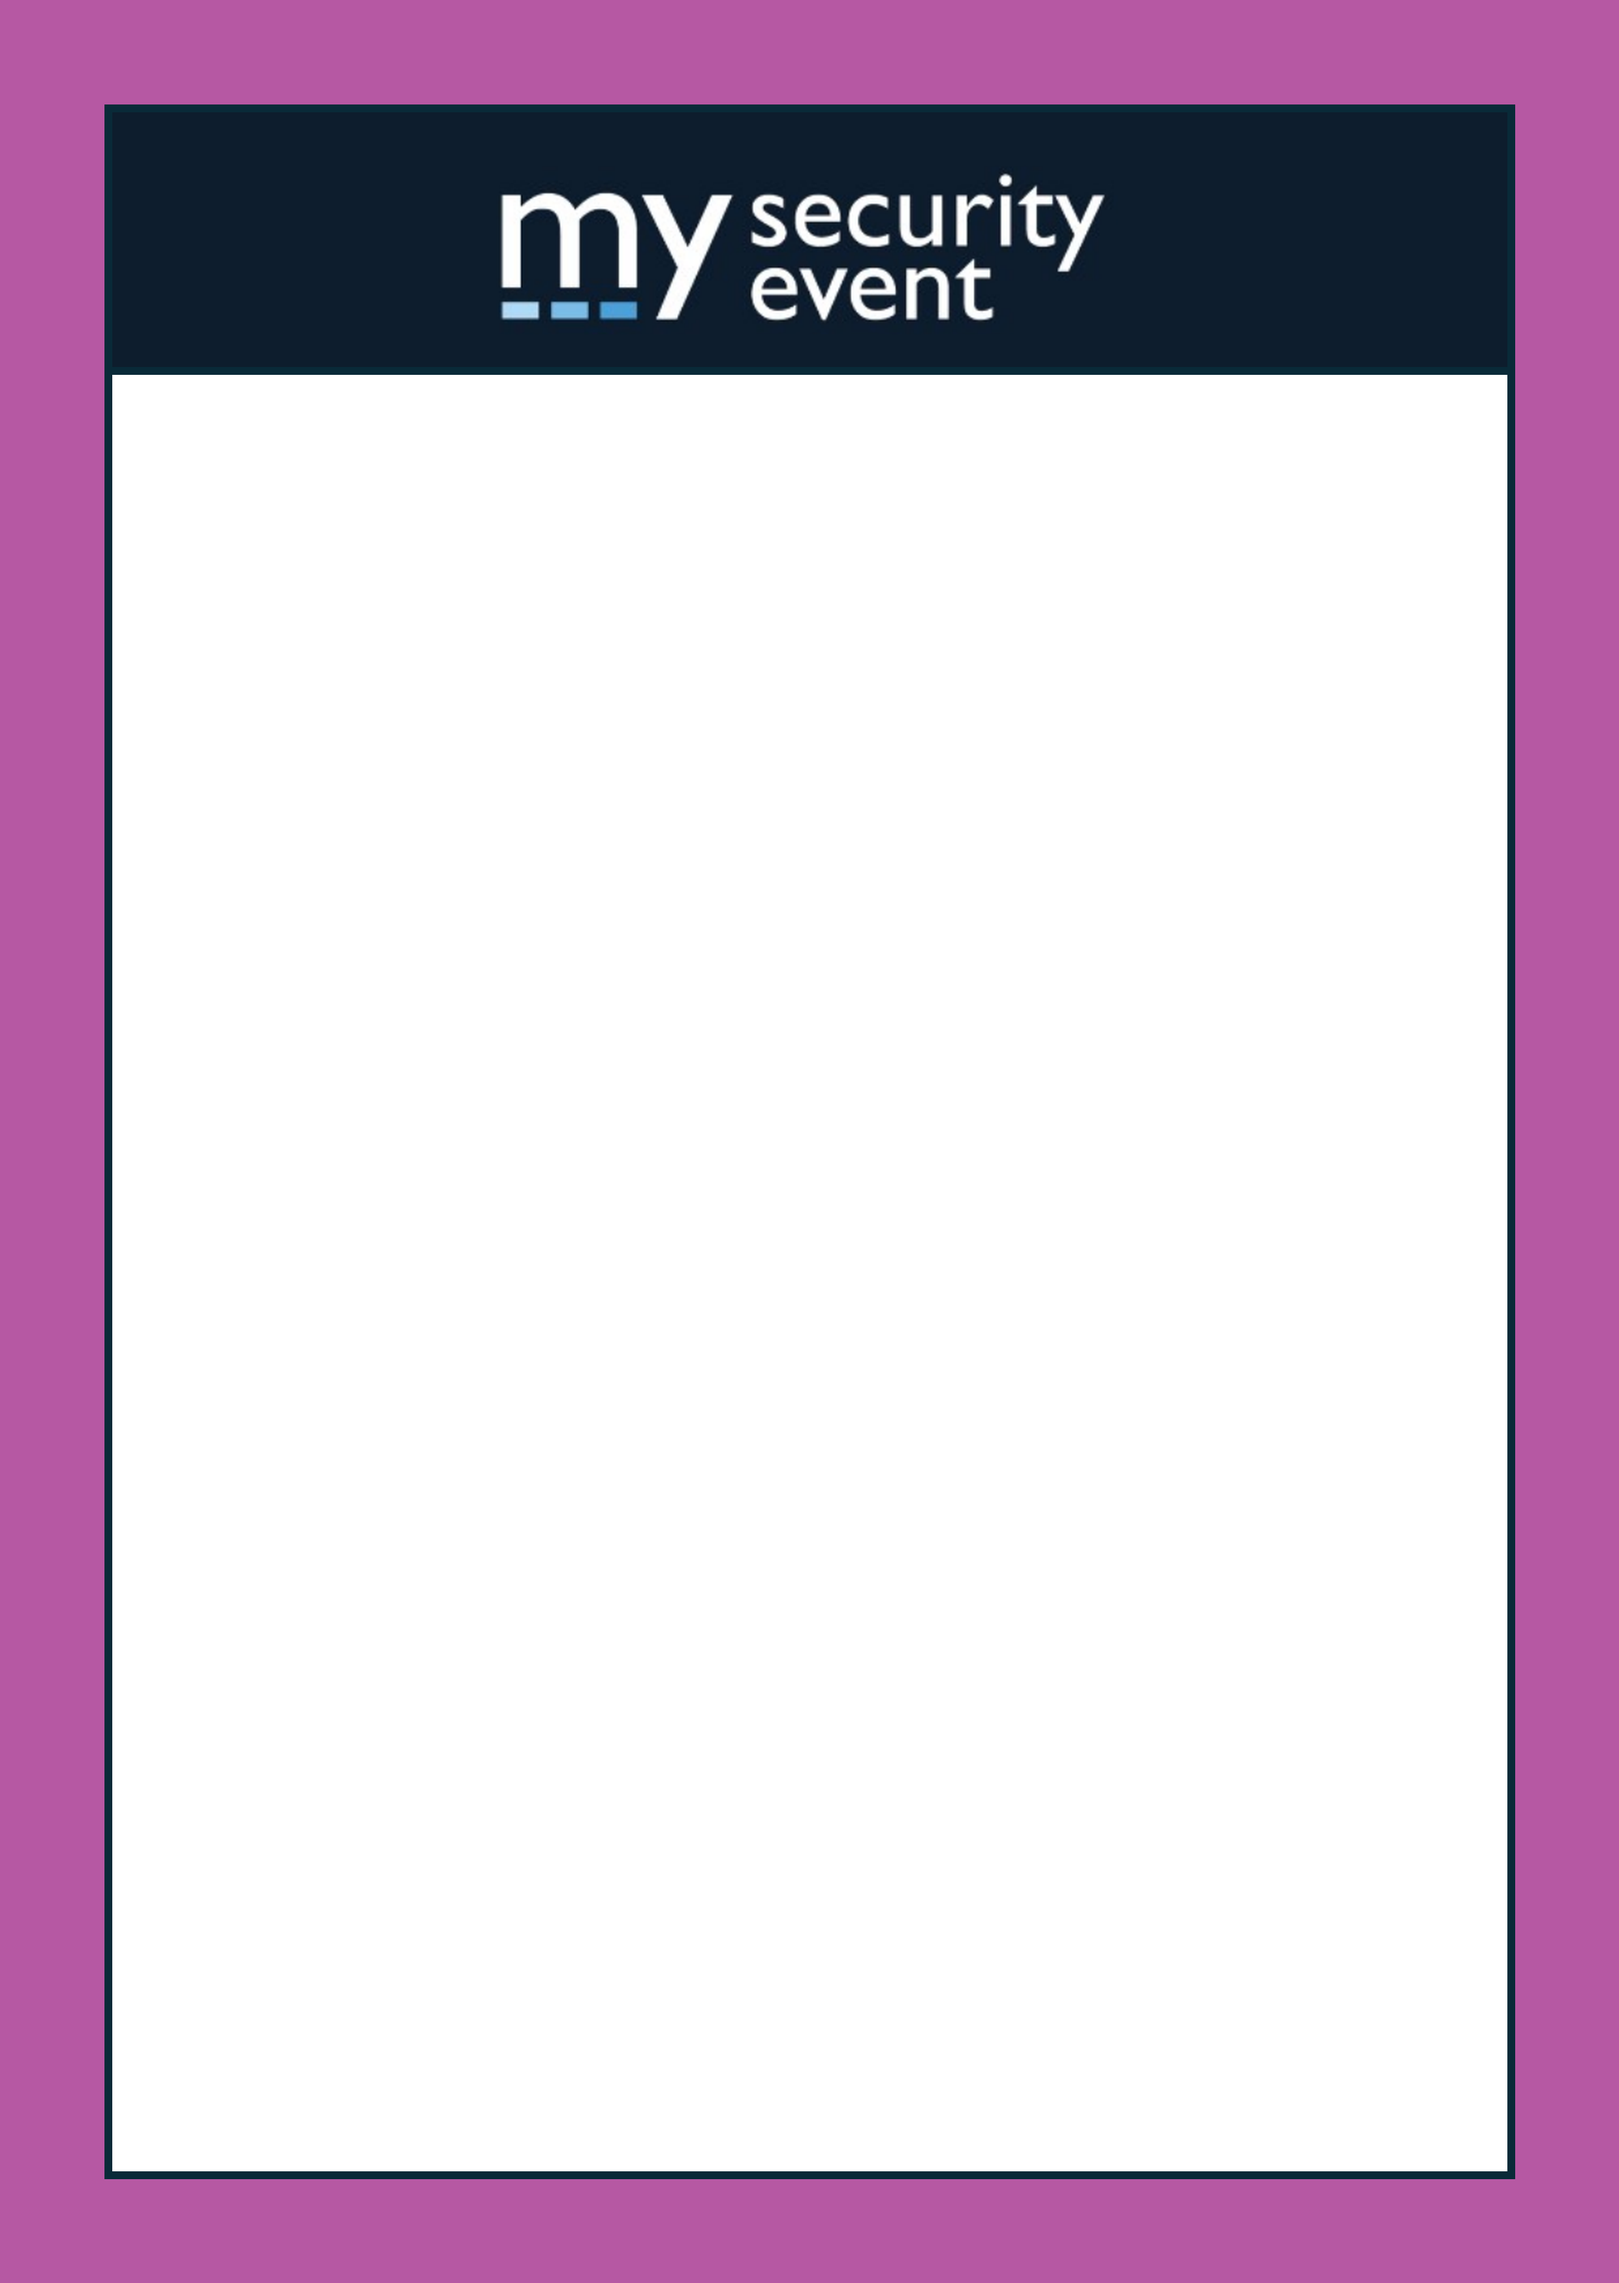
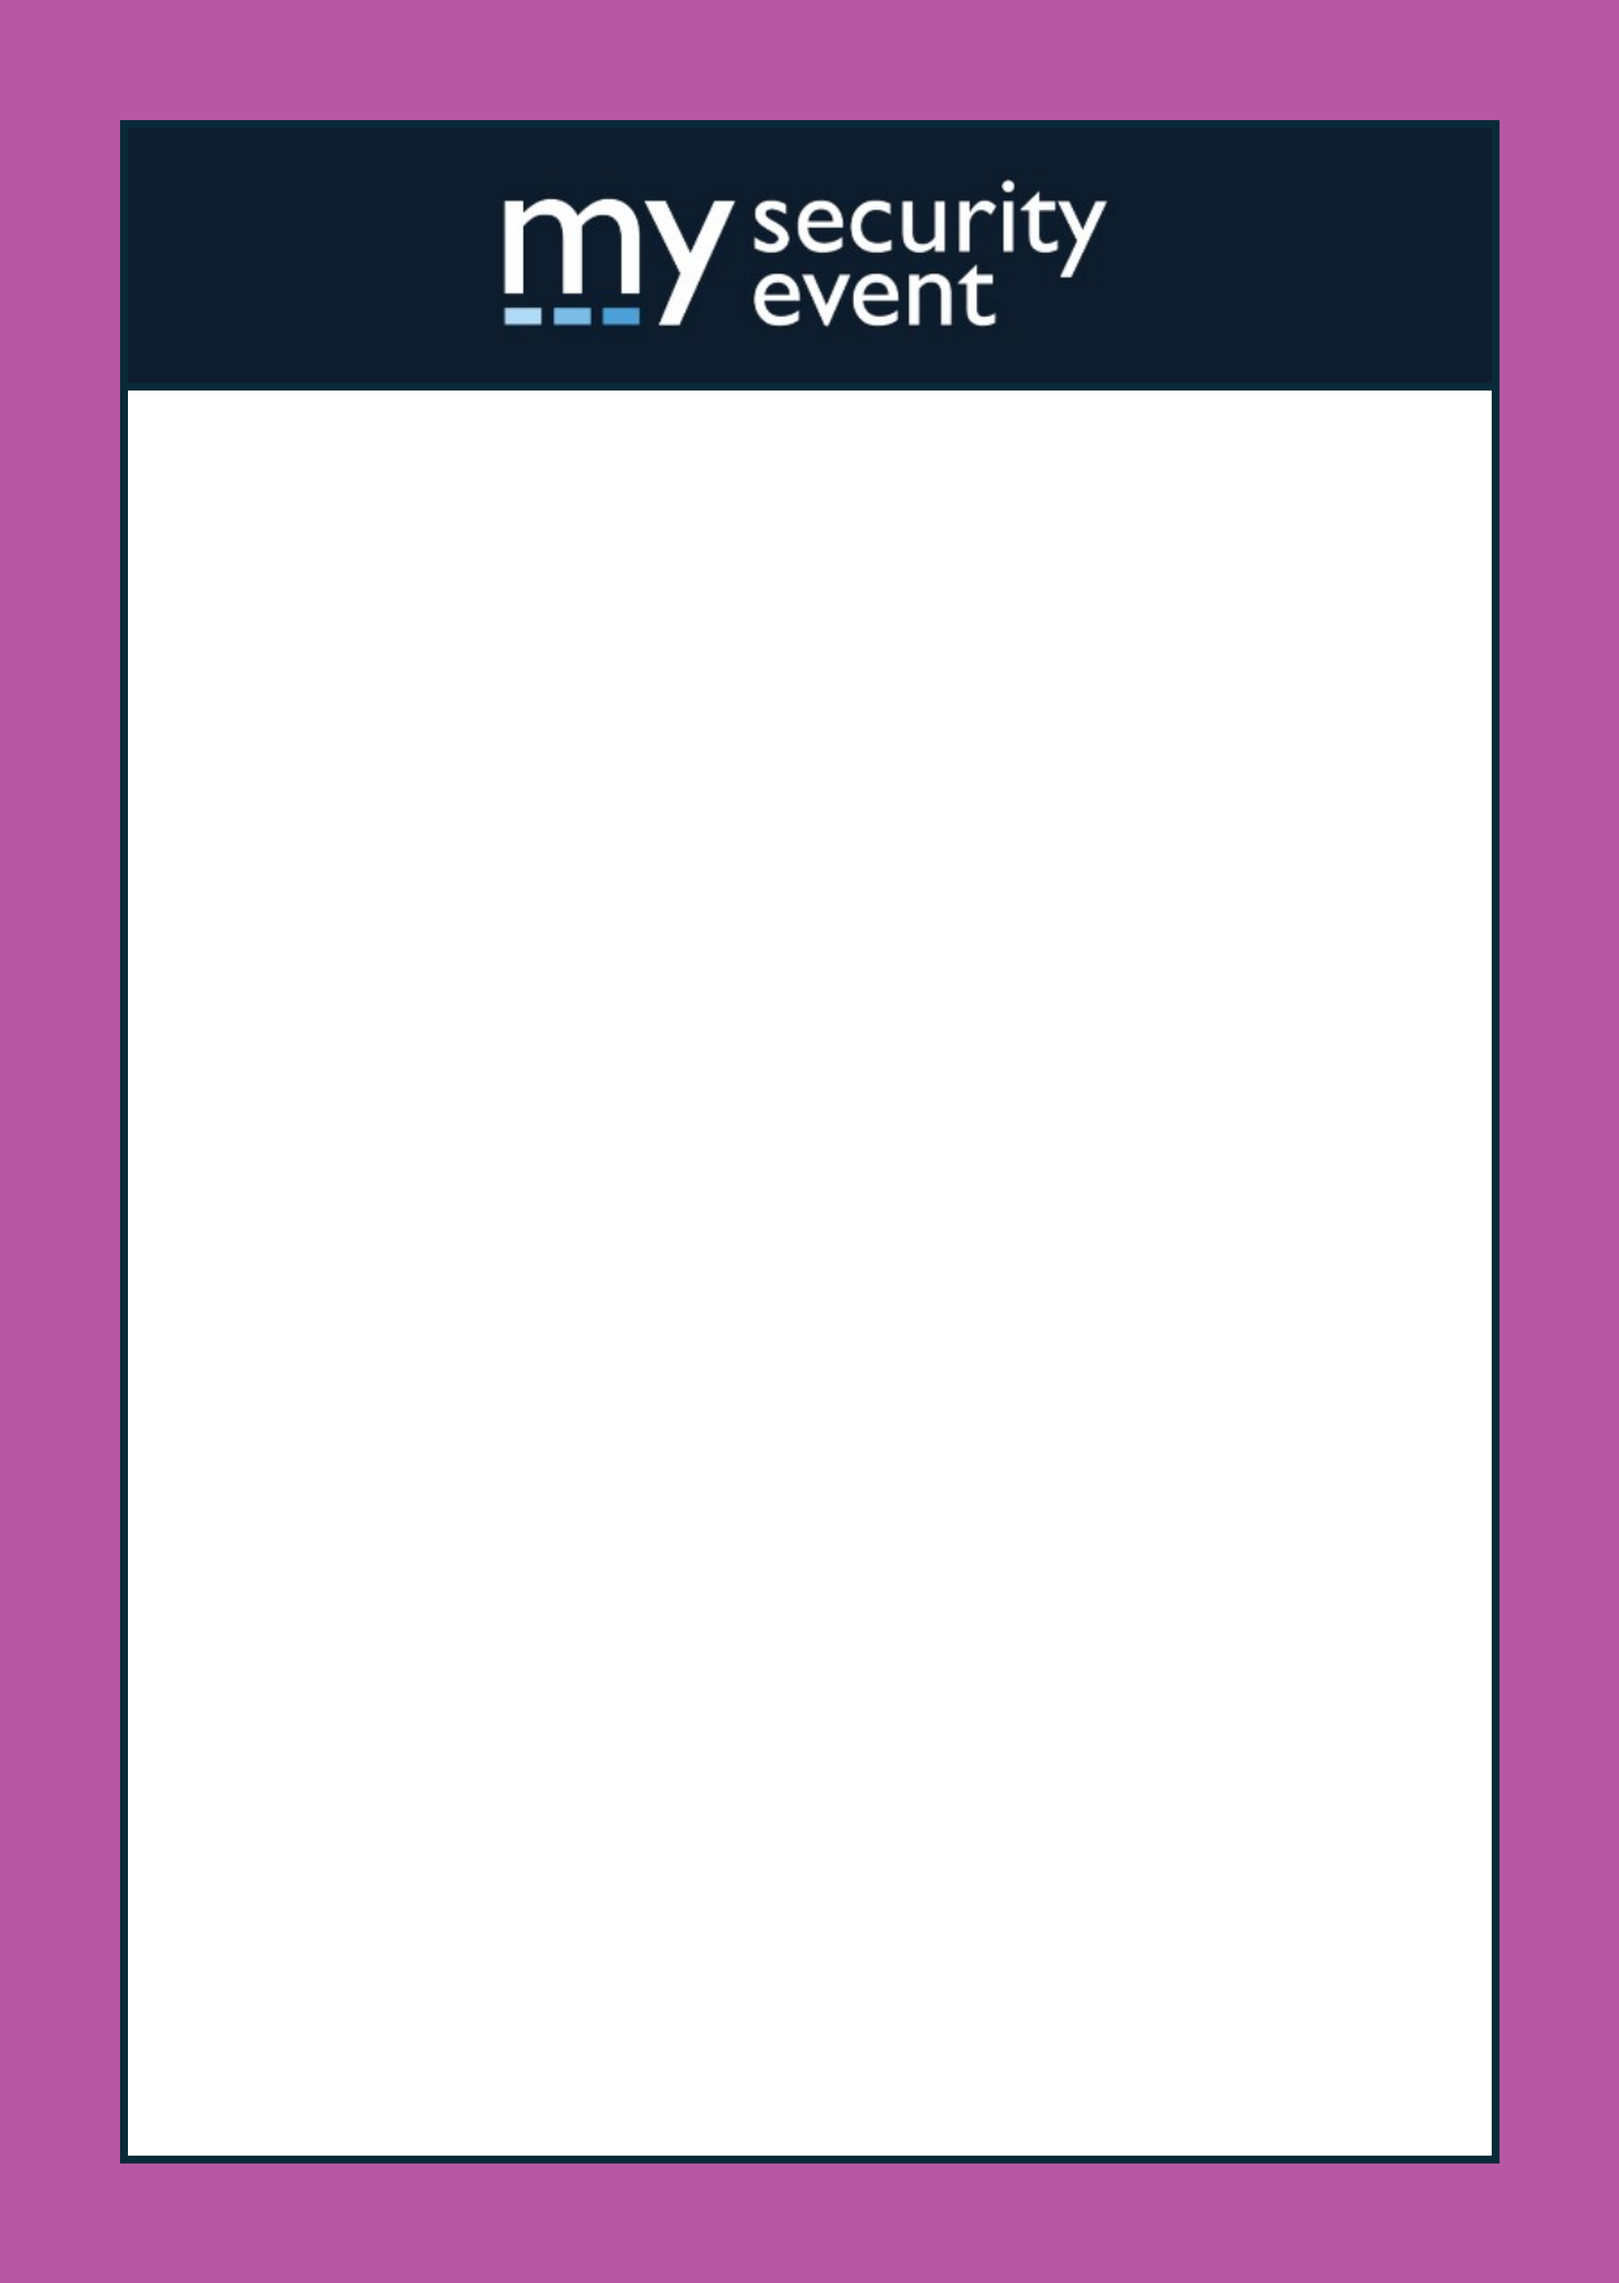
Rand der Badges um 1mm vergrößert

Changed region(s): [[0.0621, 0.0312, 0.9625, 0.9665]]

diff --git a/tests/test_badgegen_assets.py b/tests/test_badgegen_assets.py
@@ -1,0 +1,58 @@
+import os
+import sys
+import unittest
+from pathlib import Path
+
+from PIL import Image
+
+
+sys.path.insert(0, os.path.normpath(os.path.join(os.path.dirname(__file__), "..")))
+
+
+ASSET_DIR = Path(__file__).resolve().parents[1] / "assets" / "badges"
+BADGE_FILES = [
+    "tn.png",
+    "vipref.png",
+    "sponsor.png",
+    "beo.png",
+    "team.png",
+    "hostess.png",
+]
+EXPECTED_SIZE = (2480, 3496)
+EXPECTED_ROW_CHANGES = [184, 196, 2285, 2297]
+EXPECTED_COL_CHANGES = [184, 196, 586, 598, 3301, 3313]
+
+
+def _line_changes(get_pixel, length: int) -> list[int]:
+    changes: list[int] = []
+    previous = get_pixel(0)
+    for index in range(1, length):
+        current = get_pixel(index)
+        if current != previous:
+            changes.append(index)
+            previous = current
+    return changes
+
+
+class BadgeAssetGeometryTests(unittest.TestCase):
+    def test_all_badge_assets_exist_with_expected_size_and_new_margins(self) -> None:
+        for name in BADGE_FILES:
+            with self.subTest(asset=name):
+                path = ASSET_DIR / name
+                self.assertTrue(path.exists(), f"Badge asset missing: {path}")
+
+                with Image.open(path) as image:
+                    self.assertEqual(EXPECTED_SIZE, image.size)
+
+                    pixels = image.load()
+                    width, height = image.size
+
+                    row_changes = _line_changes(lambda x: pixels[x, 1000], width)
+                    col_changes = _line_changes(lambda y: pixels[300, y], height)
+
+                self.assertEqual(EXPECTED_ROW_CHANGES, row_changes)
+                self.assertEqual(EXPECTED_COL_CHANGES, col_changes)
+
+
+if __name__ == "__main__":
+    unittest.main()
